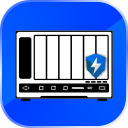
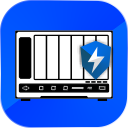
feat: 发布 TAD6S4N 模块 v0.10.8
更新插件图标。

diff --git a/app/ui/static/index.html b/app/ui/static/index.html
@@ -4,7 +4,7 @@
   <meta charset="utf-8">
   <meta name="viewport" content="width=device-width, initial-scale=1">
   <title>TAD6S4N模块</title>
-  <link rel="stylesheet" href="styles.css?v=0.10.7">
+  <link rel="stylesheet" href="styles.css?v=0.10.8">
 </head>
 <body>
   <main class="shell">
@@ -352,6 +352,6 @@
       <button id="app-modal-close" type="button" class="primary" data-modal-close>关闭</button>
     </div>
   </div>
-  <script src="app.js?v=0.10.7" defer></script>
+  <script src="app.js?v=0.10.8" defer></script>
 </body>
 </html>

diff --git a/README.md b/README.md
@@ -2,7 +2,7 @@
 
 这是一个面向飞牛 fnOS 与 TAD6S4N10G 的第三方模块。它按 RR CPUinfo 的口径显示 Intel Processor N100、N150 与 Intel Core i3-N305 的 CPU 核心最高温度，同时保留 Package 原始温度供核对；还可限制 Package 功耗、按 CPU/HDD/NVMe 三温度曲线控制一个或多个风扇、显示硬盘物理仓位与活动状态，并配置机箱 GPIO 按键映射。
 
-当前版本：0.10.7
+当前版本：0.10.8
 
 界面中的功耗设置、风扇控制和按键映射分别独立保存；保存当前页面不会覆盖另外页面尚未提交的调整。关于页的“检查更新”只在用户点击后请求最新 Release，不会自动联网检查。
 
